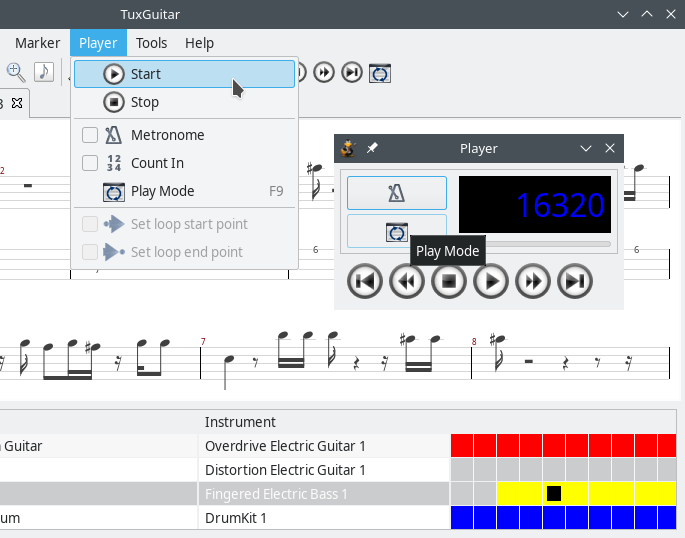
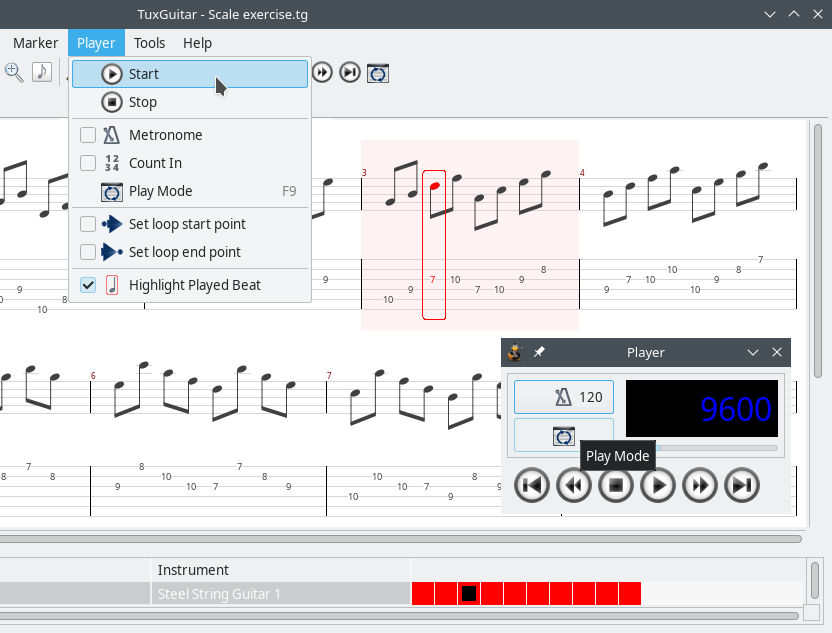
#365: Moved "Highlight Played Beat" from View menu to Player menu

diff --git a/desktop/TuxGuitar/share/help/detail_markers_player.html b/desktop/TuxGuitar/share/help/detail_markers_player.html
@@ -75,6 +75,8 @@
     <p>You can also select to continuously repeat the song and to only play a piece of the song (Play looped, Loop Range).</p>
     <h3 id="play_mode_trainer">Training Mode</h3>
     <p>Training mode gives you the opportunity to practice with a gradual tempo incrementation. You can choose to start slowly, in only half of a tempo, but in every cycle of the tune to increase the tempo by 5%, getting to the full speed after 10 playbacks. You choose a <em>beginning tempo</em>, <em>ending tempo</em> and an <em>increment</em> (in percentage) that increases the tempo after each cycle.</p>
+    <h2 id="play_highlight">Highlight Played Beat</h2>
+    <p>As you can see in the snapshot of the TuxGuitar main window above, the currently playing measure gets a red background, the beat is highlighted in red and has a frame around it. You can switch the frame on or off via the menu <strong>Player → Highlight Played Beat</strong> or define a corresponding keyboard command under <strong><a href="tools_keybinding.html">Tools → Shortcuts</a></strong>. The color of the highlighting can be changed under <strong>Tools → Settings → Styles</strong>.</p>
   </section>
 </body>
 </html>

diff --git a/desktop/TuxGuitar/src/org/herac/tuxguitar/app/view/menu/impl/ViewMenuItem.java b/desktop/TuxGuitar/src/org/herac/tuxguitar/app/view/menu/impl/ViewMenuItem.java
@@ -13,7 +13,6 @@ import org.herac.tuxguitar.app.action.impl.layout.TGSetMultitrackViewAction;
 import org.herac.tuxguitar.app.action.impl.layout.TGSetPageLayoutAction;
 import org.herac.tuxguitar.app.action.impl.layout.TGSetScoreEnabledAction;
 import org.herac.tuxguitar.app.action.impl.layout.TGSetTablatureEnabledAction;
-import org.herac.tuxguitar.app.action.impl.layout.TGToggleHighlightPlayedBeatAction;
 import org.herac.tuxguitar.app.action.impl.view.TGToggleChannelsDialogAction;
 import org.herac.tuxguitar.app.action.impl.view.TGToggleEditToolbarAction;
 import org.herac.tuxguitar.app.action.impl.view.TGToggleFretBoardEditorAction;
@@ -54,7 +53,6 @@ public class ViewMenuItem extends TGMenuItem {
 	private UIMenuCheckableItem scoreEnabled;
 	private UIMenuCheckableItem tablatureEnabled;
 	private UIMenuCheckableItem compact;
-	private UIMenuCheckableItem highlightPlayedBeat;
 	private UIMenuActionItem zoomIn;
 	private UIMenuActionItem zoomOut;
 	private UIMenuActionItem zoomReset;
@@ -127,10 +125,6 @@ public class ViewMenuItem extends TGMenuItem {
 		this.compact = this.layoutMenuItem.getMenu().createCheckItem();
 		this.compact.addSelectionListener(this.createActionProcessor(TGSetCompactViewAction.NAME));
 
-		//--HIGHLIGHT PLAYED BEAT--
-		this.highlightPlayedBeat = this.layoutMenuItem.getMenu().createCheckItem();
-		this.highlightPlayedBeat.addSelectionListener(this.createActionProcessor(TGToggleHighlightPlayedBeatAction.NAME));
-
 		this.layoutMenuItem.getMenu().createSeparator();
 
 		//--CHORD STYLE--
@@ -178,7 +172,6 @@ public class ViewMenuItem extends TGMenuItem {
 		this.tablatureEnabled.setChecked( (style & TGLayout.DISPLAY_TABLATURE) != 0 );
 		this.compact.setChecked( (style & TGLayout.DISPLAY_COMPACT) != 0 );
 		this.compact.setEnabled((style & TGLayout.DISPLAY_MULTITRACK) == 0 || tablature.getViewLayout().getSong().countTracks() == 1);
-		this.highlightPlayedBeat.setChecked( (style & TGLayout.HIGHLIGHT_PLAYED_BEAT) != 0 );
 		this.chordName.setChecked( (style & TGLayout.DISPLAY_CHORD_NAME) != 0 );
 		this.chordDiagram.setChecked( (style & TGLayout.DISPLAY_CHORD_DIAGRAM) != 0 );
 		this.zoomReset.setEnabled(!Tablature.DEFAULT_SCALE.equals(tablature.getScale()));
@@ -200,7 +193,6 @@ public class ViewMenuItem extends TGMenuItem {
 		setMenuItemTextAndAccelerator(this.scoreEnabled, "view.layout.score-enabled", TGSetScoreEnabledAction.NAME);
 		setMenuItemTextAndAccelerator(this.tablatureEnabled, "view.layout.tablature-enabled", TGSetTablatureEnabledAction.NAME);
 		setMenuItemTextAndAccelerator(this.compact, "view.layout.compact", TGSetCompactViewAction.NAME);
-		setMenuItemTextAndAccelerator(this.highlightPlayedBeat, "view.layout.highlight-played-beat", TGToggleHighlightPlayedBeatAction.NAME);
 		setMenuItemTextAndAccelerator(this.chordMenuItem, "view.layout.chord-style", null);
 		setMenuItemTextAndAccelerator(this.chordName, "view.layout.chord-name", TGSetChordNameEnabledAction.NAME);
 		setMenuItemTextAndAccelerator(this.chordDiagram, "view.layout.chord-diagram", TGSetChordDiagramEnabledAction.NAME);
@@ -224,7 +216,6 @@ public class ViewMenuItem extends TGMenuItem {
 		this.scoreEnabled.setImage(TuxGuitar.getInstance().getIconManager().getLayoutScore());
 		this.tablatureEnabled.setImage(TuxGuitar.getInstance().getIconManager().getLayoutTablature());
 		this.compact.setImage(TuxGuitar.getInstance().getIconManager().getLayoutCompact());
-		this.highlightPlayedBeat.setImage(TuxGuitar.getInstance().getIconManager().getLayoutHighlightPlayedBeat());
 		this.zoomIn.setImage(TuxGuitar.getInstance().getIconManager().getZoomIn());
 		this.zoomOut.setImage(TuxGuitar.getInstance().getIconManager().getZoomOut());
 		this.zoomReset.setImage(TuxGuitar.getInstance().getIconManager().getZoomReset());

diff --git a/desktop/TuxGuitar/src/org/herac/tuxguitar/app/view/menu/impl/TransportMenuItem.java b/desktop/TuxGuitar/src/org/herac/tuxguitar/app/view/menu/impl/TransportMenuItem.java
@@ -8,6 +8,10 @@ import org.herac.tuxguitar.app.action.impl.transport.TGTransportPlayPauseAction;
 import org.herac.tuxguitar.app.action.impl.transport.TGTransportSetLoopEHeaderAction;
 import org.herac.tuxguitar.app.action.impl.transport.TGTransportSetLoopSHeaderAction;
 import org.herac.tuxguitar.app.action.impl.transport.TGTransportStopAction;
+import org.herac.tuxguitar.app.view.component.tab.Tablature;
+import org.herac.tuxguitar.app.view.component.tab.TablatureEditor;
+import org.herac.tuxguitar.graphics.control.TGLayout;
+import org.herac.tuxguitar.app.action.impl.layout.TGToggleHighlightPlayedBeatAction;
 import org.herac.tuxguitar.app.view.menu.TGMenuItem;
 import org.herac.tuxguitar.player.base.MidiPlayerMode;
 import org.herac.tuxguitar.song.models.TGMeasure;
@@ -31,6 +35,7 @@ public class TransportMenuItem extends TGMenuItem {
 	private UIMenuActionItem mode;
 	private UIMenuCheckableItem loopSHeader;
 	private UIMenuCheckableItem loopEHeader;
+	private UIMenuCheckableItem highlightPlayedBeat;
 
 	private int status;
 
@@ -73,6 +78,13 @@ public class TransportMenuItem extends TGMenuItem {
 		this.loopEHeader = this.transportMenuItem.getMenu().createCheckItem();
 		this.loopEHeader.addSelectionListener(this.createActionProcessor(TGTransportSetLoopEHeaderAction.NAME));
 
+		//--SEPARATOR--
+		this.transportMenuItem.getMenu().createSeparator();
+
+		//--HIGHLIGHT PLAYED BEAT--
+		this.highlightPlayedBeat = this.transportMenuItem.getMenu().createCheckItem();
+		this.highlightPlayedBeat.addSelectionListener(this.createActionProcessor(TGToggleHighlightPlayedBeatAction.NAME));
+
 		this.status = STATUS_STOPPED;
 		this.loadIcons();
 		this.loadProperties();
@@ -87,6 +99,9 @@ public class TransportMenuItem extends TGMenuItem {
 		this.loopSHeader.setChecked( measure != null && measure.getNumber() == pm.getLoopSHeader() );
 		this.loopEHeader.setEnabled( pm.isLoop() );
 		this.loopEHeader.setChecked( measure != null && measure.getNumber() == pm.getLoopEHeader() );
+		Tablature tablature = TablatureEditor.getInstance(this.findContext()).getTablature();
+		int style = tablature.getViewLayout().getStyle();
+		this.highlightPlayedBeat.setChecked( (style & TGLayout.HIGHLIGHT_PLAYED_BEAT) != 0 );
 		this.loadIcons(false);
 	}
 
@@ -99,6 +114,7 @@ public class TransportMenuItem extends TGMenuItem {
 		setMenuItemTextAndAccelerator(this.countDown, "transport.count-down", TGTransportCountDownAction.NAME);
 		setMenuItemTextAndAccelerator(this.loopSHeader, "transport.set-loop-start", TGTransportSetLoopSHeaderAction.NAME);
 		setMenuItemTextAndAccelerator(this.loopEHeader, "transport.set-loop-end", TGTransportSetLoopEHeaderAction.NAME);
+		setMenuItemTextAndAccelerator(this.highlightPlayedBeat, "view.layout.highlight-played-beat", TGToggleHighlightPlayedBeatAction.NAME);
 	}
 
 	public void loadIcons(){
@@ -108,6 +124,7 @@ public class TransportMenuItem extends TGMenuItem {
 		this.mode.setImage(TuxGuitar.getInstance().getIconManager().getTransportMode());
 		this.loopSHeader.setImage(TuxGuitar.getInstance().getIconManager().getTransportLoopStart());
 		this.loopEHeader.setImage(TuxGuitar.getInstance().getIconManager().getTransportLoopEnd());
+		this.highlightPlayedBeat.setImage(TuxGuitar.getInstance().getIconManager().getLayoutHighlightPlayedBeat());
 	}
 
 	public void loadIcons(boolean force){

diff --git a/desktop/TuxGuitar/src/org/herac/tuxguitar/app/view/toolbar/main/TGMainToolBarSectionLayout.java b/desktop/TuxGuitar/src/org/herac/tuxguitar/app/view/toolbar/main/TGMainToolBarSectionLayout.java
@@ -5,7 +5,6 @@ import org.herac.tuxguitar.app.action.impl.layout.TGSetLinearLayoutAction;
 import org.herac.tuxguitar.app.action.impl.layout.TGSetMultitrackViewAction;
 import org.herac.tuxguitar.app.action.impl.layout.TGSetPageLayoutAction;
 import org.herac.tuxguitar.app.action.impl.layout.TGSetScoreEnabledAction;
-import org.herac.tuxguitar.app.action.impl.layout.TGToggleHighlightPlayedBeatAction;
 import org.herac.tuxguitar.graphics.control.TGLayout;
 import org.herac.tuxguitar.graphics.control.TGLayoutHorizontal;
 import org.herac.tuxguitar.graphics.control.TGLayoutVertical;
@@ -21,7 +20,6 @@ public class TGMainToolBarSectionLayout extends TGMainToolBarSection {
 	private UIMenuActionItem multitrack;
 	private UIMenuActionItem scoreEnabled;
 	private UIMenuActionItem compact;
-	private UIMenuActionItem highlightPlayedBeat;
 	
 	public TGMainToolBarSectionLayout(TGMainToolBar toolBar) {
 		super(toolBar);
@@ -45,9 +43,6 @@ public class TGMainToolBarSectionLayout extends TGMainToolBarSection {
 		this.compact = this.menuItem.getMenu().createActionItem();
 		this.compact.addSelectionListener(this.createActionProcessor(TGSetCompactViewAction.NAME));
 		
-		this.highlightPlayedBeat = this.menuItem.getMenu().createActionItem();
-		this.highlightPlayedBeat.addSelectionListener(this.createActionProcessor(TGToggleHighlightPlayedBeatAction.NAME));
-		
 		this.loadIcons();
 		this.loadProperties();
 	}
@@ -62,7 +57,6 @@ public class TGMainToolBarSectionLayout extends TGMainToolBarSection {
 		this.multitrack.setText(this.getText("view.layout.multitrack", ( (style & TGLayout.DISPLAY_MULTITRACK) != 0 )));
 		this.scoreEnabled.setText(this.getText("view.layout.score-enabled", ( (style & TGLayout.DISPLAY_SCORE) != 0 )));
 		this.compact.setText(this.getText("view.layout.compact", ( (style & TGLayout.DISPLAY_COMPACT) != 0 )));
-		this.highlightPlayedBeat.setText(this.getText("view.layout.highlight-played-beat", ( (style & TGLayout.HIGHLIGHT_PLAYED_BEAT) != 0 )));
 	}
 	
 	public void loadIcons(){
@@ -72,7 +66,6 @@ public class TGMainToolBarSectionLayout extends TGMainToolBarSection {
 		this.multitrack.setImage(this.getIconManager().getLayoutMultitrack());
 		this.scoreEnabled.setImage(this.getIconManager().getLayoutScore());
 		this.compact.setImage(this.getIconManager().getLayoutCompact());
-		this.highlightPlayedBeat.setImage(this.getIconManager().getLayoutHighlightPlayedBeat());
 	}
 	
 	public void updateItems(){
@@ -85,6 +78,5 @@ public class TGMainToolBarSectionLayout extends TGMainToolBarSection {
 		this.scoreEnabled.setText(this.getText("view.layout.score-enabled", ( (style & TGLayout.DISPLAY_SCORE) != 0 )));
 		this.compact.setText(this.getText("view.layout.compact", ( (style & TGLayout.DISPLAY_COMPACT) != 0 )));
 		this.compact.setEnabled((style & TGLayout.DISPLAY_MULTITRACK) == 0 || this.getSong().countTracks() == 1);
-		this.highlightPlayedBeat.setText(this.getText("view.layout.highlight-played-beat", ( (style & TGLayout.HIGHLIGHT_PLAYED_BEAT) != 0 )));
 	}
 }
